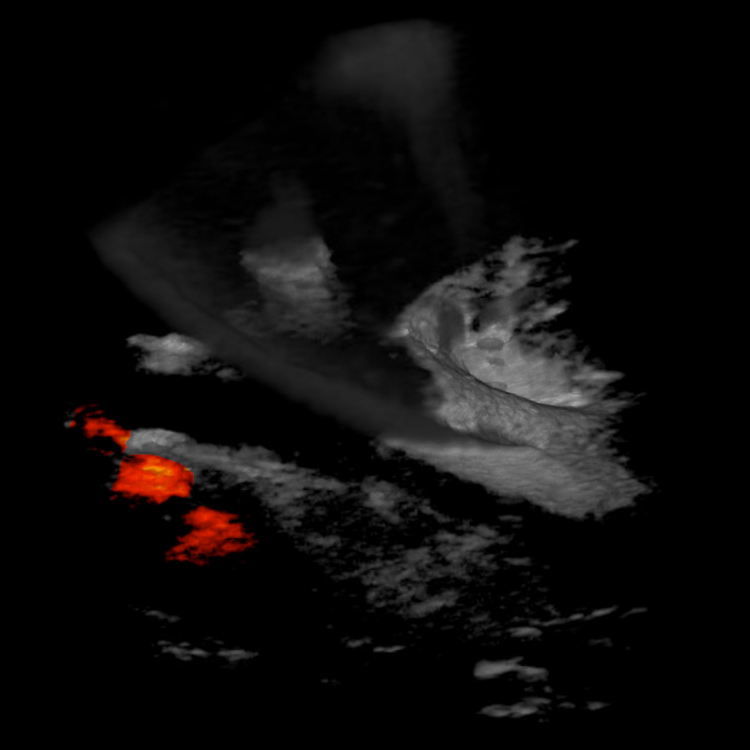
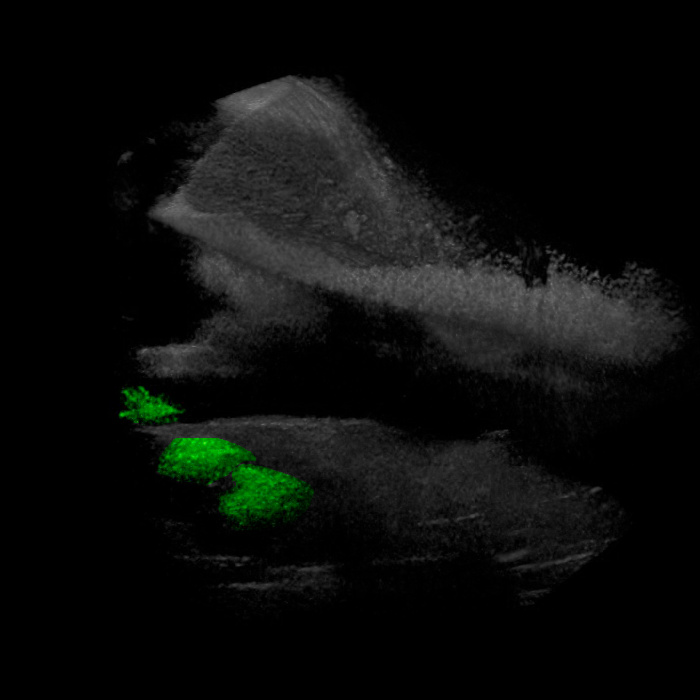
updated figures to CI paper.

diff --git a/scripts/contrast_adjust.py b/scripts/contrast_adjust.py
@@ -106,12 +106,12 @@ def oct_to_dicom(data, resolutionx, resolutiony, PatientName, seriesdescription,
 if __name__ == '__main__':
 
     desktop_loc = os.path.expanduser('~/Desktop/GeoCorrection')
-    patient_uid = 'patient'
-    # study_uid = 'patient'
-    # input_dir = join(desktop_loc, patient_uid, study_uid)
+    patient_uid = 'cadaver'
+    study_uid = 'full migration'
+    input_dir = join(desktop_loc, patient_uid, study_uid)
 
-    study_uid = 'patient'
-    input_dir = join(desktop_loc, patient_uid)
+    # study_uid = 'patient'
+    # input_dir = join(desktop_loc, patient_uid)
     file_extension = '*.npy'
 
     data_path = []
@@ -126,13 +126,15 @@ if __name__ == '__main__':
     #index is obtianed asssuming the bottom layer as 0,
     # if index = 250, it means top_remove: 80 (330-250) slices are removed from
     # the top
-    top_remove = 200
+    top_remove = 40
     index = int(330-top_remove)
 
     top_stack = volume_data[:, :, index::].astype('float64')
     bottom_stack = volume_data[:, :, 0:index].astype('float64')
 
-    opacity_factor = 0.4
+    # opacity_factor = 0.35
+    opacity_factor = 1
+
     top_stack *= opacity_factor
 
     top_stack = top_stack.astype('uint16')
@@ -149,10 +151,13 @@ if __name__ == '__main__':
 
     #
     desktop_loc = os.path.expanduser('~/Desktop/GeoCorrection')
-    operation_uid = 'alpha blending'
+    operation_uid = 'contrast enhancement'
     dst_uid = 'DICOM'
 
-    input_dir = join(desktop_loc, operation_uid, study_uid,dst_uid)
+    input_dir = join(desktop_loc, operation_uid,
+                     patient_uid,
+                     study_uid,
+                     dst_uid)
     try:
         os.makedirs(input_dir)
     except FileExistsError:
@@ -161,24 +166,23 @@ if __name__ == '__main__':
 
     dicom_prefix = 'ci'
 
-    PatientName = 'Test'
+    # PatientName = 'Test'
     top_stack = top_stack.astype('uint16')
     bottom_stack = bottom_stack.astype('uint16')
 
     volume_data[:, :, index::] = top_stack
     volume_data[:, :, 0:index] = bottom_stack
     # volume_data[volume_data >= 466] = 0
-    # volume_data = volume_data.astype('uint16')
     # checked against the test phantom
     resolutionx, resolutiony = 0.033, 0.033
     oct_to_dicom(volume_data, resolutionx=resolutionx,
-                 # resolutiony=resolutiony,
-                 # PatientName=patient_uid,
-                 # seriesdescription=study_uid,
-                 # dicom_folder=input_dir,
-                 # dicom_prefix=dicom_prefix)
                  resolutiony=resolutiony,
-                 PatientName=PatientName,
+                 PatientName=patient_uid,
                  seriesdescription=study_uid,
                  dicom_folder=input_dir,
                  dicom_prefix=dicom_prefix)
+                 # resolutiony=resolutiony,
+                 # PatientName=PatientName,
+                 # seriesdescription=study_uid,
+                 # dicom_folder=input_dir,
+                 # dicom_prefix=dicom_prefix)
